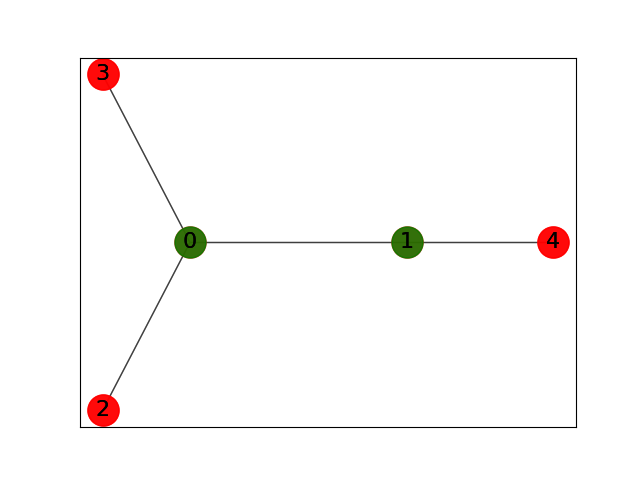
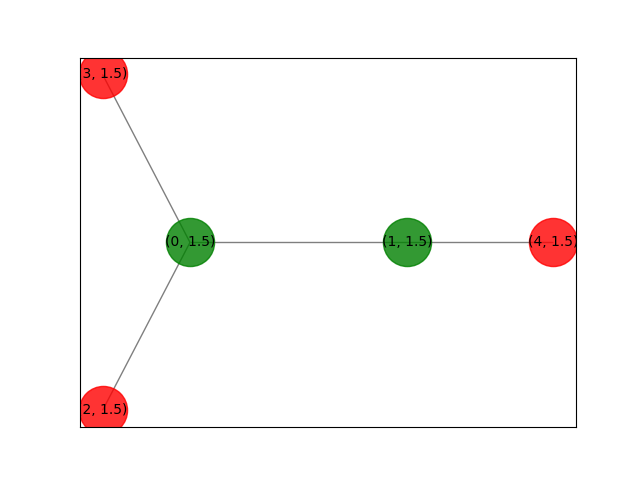
simulation complete

diff --git a/simulation.py b/simulation.py
@@ -9,9 +9,10 @@ class Agent:
     def __init__(self, id):
         self.id = id
         self.adopted = False
+        self.payoff = 0
 
 class Simulation:
-    def __init__(self, initGraph, vH0, vH1, vL0, vL1, quality, p1, p0, reward, alpha, pHigh, meanFieldStrategy):
+    def __init__(self, initGraph, vH0, vH1, vL0, vL1, quality, p1, p0, reward, alpha, pHigh):
         # Graph topology info, intial adopters in round 0 assigned later. 
         self.G = initGraph
 
@@ -42,30 +43,66 @@ class Simulation:
         self.pHigh = pHigh
 
         # Function that specifies, for every possible degree d, the probability that an agent of degree d adopts in round 0.
-        self.meanFieldStrategy = meanFieldStrategy
+        self.meanFieldStrategy = {}
+
+        # Initial adopters for starting the simulation.
+        self.initialAdopters = []
 
     def simulate(self):
+        self.calculateMeanFieldStrategyForAgents()
         self.drawGraphState()
         self.assignInitialAdopters()
         self.drawGraphState()
+        self.simulateDiffusionOfProduct()
 
+    def calculateMeanFieldStrategyForAgents(self):
+        meanFieldStrategy = {}
+        for degree in range(10):
+            payoffDelta = utils.payoffDeltaEarlyLate(self.alpha, self.vH0, self.vH1, self.vL0, degree, self.pHigh, self.p0, self.p1, self.reward)
+            if math.isclose(payoffDelta, 0):
+                # Node indifferent
+                meanFieldStrategy[degree] = 0.5
+            elif payoffDelta < 0:
+                # Node defers
+                meanFieldStrategy[degree] = 0
+            elif payoffDelta > 0:
+                # Node adopts in round 0     
+                meanFieldStrategy[degree] = 1
+        self.meanFieldStrategy = meanFieldStrategy        
+    
     def assignInitialAdopters(self):
         for node in self.G.nodes():
             degree = len(self.G[node])
-            payoffDelta = utils.payoffDeltaEarlyLate(self.alpha, self.vH0, self.vH1, self.vL0, degree, self.pHigh, self.p0, self.p1, self.reward)
-            print(node.id, payoffDelta)
-            if math.isclose(payoffDelta, 0):
-                # Node indifferent
-                pass
-            elif payoffDelta < 0:
-                # Node defers
-                pass
-            elif payoffDelta > 0:
-                # Node adopts in round 0     
-                node.adopted = True
-            
+            adopted = random.random() < self.meanFieldStrategy[degree]
+            node.adopted = adopted
+            value = self.vH0 if self.quality == 1 else self.vL0
+            node.payoff += value - self.p0
+            if adopted:
+                self.initialAdopters.append(node)
 
+    def simulateDiffusionOfProduct(self):
+        unvisited = []
+        for node in self.initialAdopters:
+            if self.quality == 1:
+                neighbours = self.G[node]
+                node.payoff += len(neighbours) * self.reward
+                sublist = []
+                for n in neighbours:
+                    if n not in self.initialAdopters:
+                        sublist.append(n)
+                unvisited.append(sublist)
+            else:
+                node.adopted = False   
+                self.drawGraphState()   
+                  
+        for stage in unvisited:
+            for node in stage:
+                node.adopted = True
+                node.payoff += self.vH1 - self.p1
+            self.drawGraphState()     
+            
     def drawGraphState(self):
+        plt.figure()
         # Get pos of nodes
         pos=nx.spectral_layout(self.G)
 
@@ -77,23 +114,24 @@ class Simulation:
         nx.draw_networkx_nodes(self.G, pos,
                         nodelist=adopted,
                         node_color='g',
-                        node_size=500,
+                        node_size=1200,
                         alpha=0.8)
         # Draw non adotped nodes                   
         nx.draw_networkx_nodes(self.G, pos,
                         nodelist=notAdopted,
                         node_color='r',
-                        node_size=500,
+                        node_size=1200,
                         alpha=0.8)
 
         # Draw edges
         nx.draw_networkx_edges(self.G, pos, width=1.0, alpha=0.5)
 
         # Labels for nodes
-        labels = {node:node.id for node in self.G.nodes()}               
+        labels = {node:(node.id, node.payoff) for node in self.G.nodes()}
+        print(labels)               
 
         # Draw labels
-        nx.draw_networkx_labels(self.G, pos, labels, font_size=16)
+        nx.draw_networkx_labels(self.G, pos, labels, font_size=10)
 
         plt.savefig("./fig_tick{}.png".format(self.tick))
         self.tick += 1
@@ -114,24 +152,13 @@ if __name__ == "__main__":
         (nodes[1], nodes[4]),
     ])
 
-
-    def meanFieldStrategy(d):
-        if d == 1:
-            return 0.1
-        elif d == 2:
-            return 0.2
-        elif d == 3:
-            return 0.4
-        else:
-            return 0.8 
-
     simulationParameters = {
                    # Product info
                    "vH1": 1,
                    "vH0": 2,
                    "vL1": 0.2,
                    "vL0": 0.2,
-                   "quality": 0,
+                   "quality": 1,
 
                    # Pricing policy
                    "p0": 0.5,
@@ -142,9 +169,6 @@ if __name__ == "__main__":
                    "alpha": 0.1,
                    # Agent's belief on the probabilty that the product qualtiy is high
                    "pHigh" : 0.1,
-
-                   # Mean field strategy for agents
-                   "meanFieldStrategy" : meanFieldStrategy,
                    }        
 
     sim = Simulation(G, **simulationParameters)
